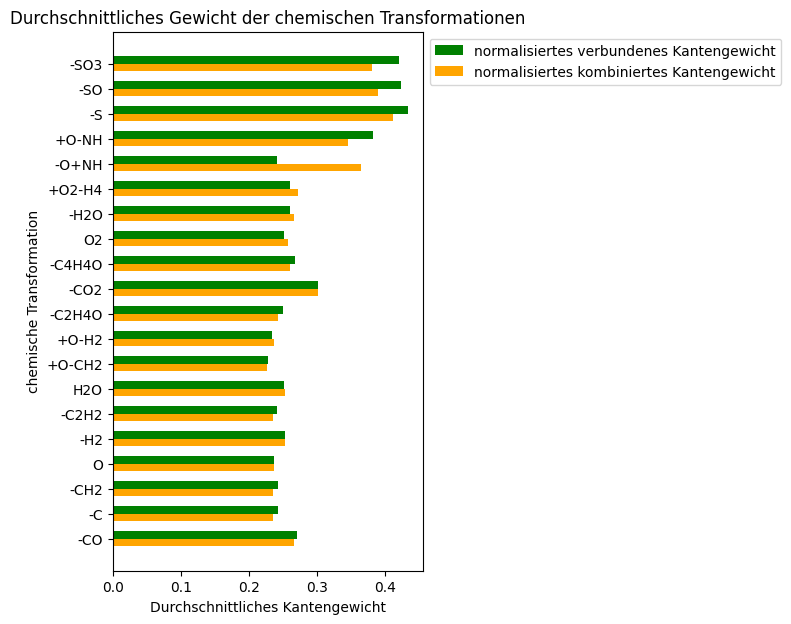
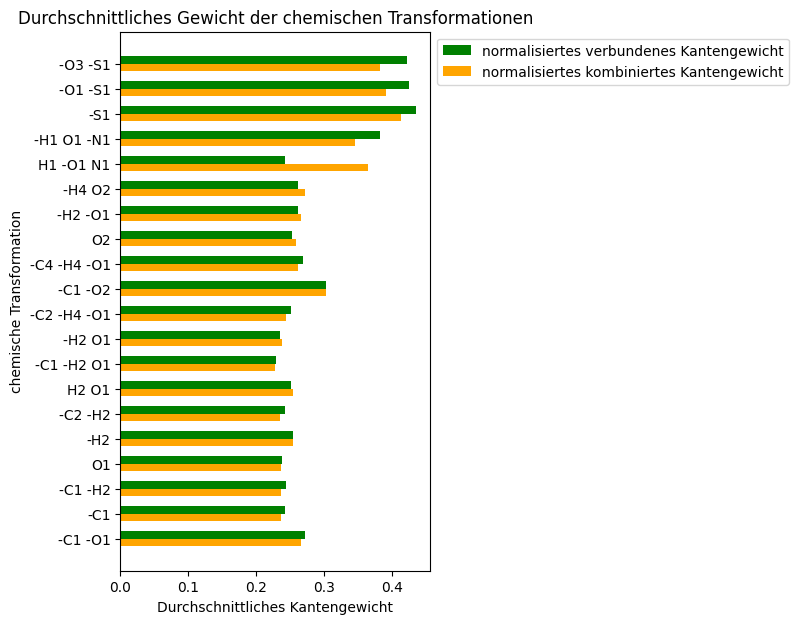
update analyze scripts

diff --git a/models/analyze/A010_analyze_graph.py b/models/analyze/A010_analyze_graph.py
@@ -1,5 +1,5 @@
 # Name: Philipp Plamper 
-# Date: 12. october 2021
+# Date: 13. october 2021
 
 import matplotlib.pyplot as plt
 import numpy as np
@@ -68,8 +68,7 @@ def get_intensity_trend_distribution(call_graph, export_path):
     plt.xlabel('Messpunkt')
     plt.ylabel('Anzahl an ausgehenden \n "SAME_AS"-Kanten')
     plt.legend(['Anzahl Molekülknoten', 'gleichbleibende Intensität', 'sinkende Intensität', 'steigende Intensität'], loc='upper left', bbox_to_anchor=(1, 1))
-    x = [0,1,2,3,4,5,6,7,8,9,10,11,12]
-    plt.xticks(x)
+    plt.xticks(np.arange(0, len(get_mol), 1))
 
     name = 'graph_intensity_trend_distribution'
     plt.savefig(export_path + name + '.png', bbox_inches='tight')
@@ -93,7 +92,7 @@ def outgoing_transformations_measurement(call_graph, export_path):
 
     get_mol = call_graph.run("""
         MATCH (m:Molecule)-[]-(t:Measurement)
-        WHERE t.point_in_time < 12
+        WHERE t.point_in_time < 13
         RETURN t.point_in_time as time, count(m) as cmol
     """).to_data_frame()
 
@@ -106,8 +105,7 @@ def outgoing_transformations_measurement(call_graph, export_path):
     plt.bar(or_hti.time, or_hti.relationships_out, color='orange')
     plt.plot(get_mol.time, get_mol.cmol, color = 'black', lw=1.5)
     plt.legend(['Anzahl Molekülknoten', 'PT-Kanten', 'HTI-Kanten'], loc='upper left', bbox_to_anchor=(1, 1))
-    x = [0,1,2,3,4,5,6,7,8,9,10,11]
-    plt.xticks(x)
+    plt.xticks(np.arange(0, len(get_mol), 1))
 
     name = 'graph_outgoing_transformations_measurement'
     plt.savefig(export_path + name + '.png', bbox_inches='tight')
@@ -139,22 +137,19 @@ def outgoing_transformations_occurrence(call_graph, export_path):
     mor_cti = mor_cti.groupby(mor_cti['rel_out'], as_index=False).aggregate(af_cti)
     mor_cti['cti_perc'] = mor_cti.formula_string/mor_cti.formula_string.sum()*100
 
-    y = [1,2,3,4,5,6,7,8,9,10,11,12,13,14,15,16,17,18,19]
-    x = [1,2,3,4,5,6,7,8,9,10,11,12,13,14,15]
-
     plt.figure(figsize=(9, 3))
     plt.subplot(1, 2, 1)
     plt.suptitle('Verteilung der Anzahl der ausgehenden Transformationskanten pro Molekülknoten')
     plt.bar(mor_cti.rel_out, mor_cti.cti_perc, color='green')
     plt.xlabel('Anzahl ausgehende PT-Kanten')
     plt.ylabel('Anteil der Molekülknoten (%)')
-    plt.xticks(y)
+    plt.xticks(np.arange(1, len(mor_cti)+1, 1))
 
     plt.subplot(1, 2, 2)
     plt.bar(mor.rel_out, mor.hti_perc, color='green')
     plt.xlabel('Anzahl ausgehende HTI-Kanten')
     plt.ylabel('Anteil der Molekülknoten (%)')
-    plt.xticks(x)
+    plt.xticks(np.arange(1, len(mor)+1, 1))
 
     plt.tight_layout()
 
@@ -181,11 +176,8 @@ def most_occurring_transformations(call_graph, export_path):
     df_join = pd.merge(transform_count_hti, transform_count_cti, on=["funktionelle_Gruppe"])
     df_join['share_hti'] = df_join.Anzahl_HTI_Kanten/df_join.Anzahl_HTI_Kanten.sum()*100
     df_join['share_cti'] = df_join.Anzahl_CTI_Kanten/df_join.Anzahl_CTI_Kanten.sum()*100
-    df_join['fg'] = ['-CO', '-C', '-CH2', 'O', '-H2', '-C2H2', 'H2O', '+O-CH2', '+O-H2', '-C2H4O', '-CO2', '-C4H4O', 'O2', '-H2O', '+O2-H4', '-O+NH', '+O-NH', '-S', '-SO', '-SO3']
 
-    df_join['diff'] = df_join.share_hti/df_join.share_cti
-
-    labels = ['-CO', '-C', '-CH2', 'O', '-H2', '-C2H2', 'H2O', '+O-CH2', '+O-H2', '-C2H4O', '-CO2', '-C4H4O', 'O2', '-H2O', '+O2-H4', '-O+NH', '+O-NH', '-S', '-SO', '-SO3']
+    labels = df_join['funktionelle_Gruppe'].to_list()
     x = np.arange(len(labels))
     height = 0.3
     plt.figure(figsize=(4, 7))
@@ -217,7 +209,7 @@ def average_weight_transformations(call_graph, export_path):
     tch.avg_combined = tch.avg_combined
     tch.avg_connect = tch.avg_connect
 
-    labels = ['-CO', '-C', '-CH2', 'O', '-H2', '-C2H2', 'H2O', '+O-CH2', '+O-H2', '-C2H4O', '-CO2', '-C4H4O', 'O2', '-H2O', '+O2-H4', '-O+NH', '+O-NH', '-S', '-SO', '-SO3']
+    labels = tch['funktionelle_Gruppe'].to_list()
     x = np.arange(len(labels))
     height = 0.3
     plt.figure(figsize=(4, 7))

diff --git a/models/analyze/A005_analyze_data.py b/models/analyze/A005_analyze_data.py
@@ -19,7 +19,7 @@ def molecules_per_measurement(molecule_data, export_path):
 
     aggregation_functions = {'peak_charge': 'sum'}
     df_count = molecule_data.groupby(molecule_data['measurement_id']).aggregate(aggregation_functions)
-    help_list = [0,1,2,3,4,5,6,7,8,9,10,11,12]
+    help_list = np.arange(0, len(df_count), 1)
     df_count['timepoint']= help_list
 
     df_count['wdup'] = df_count.peak_charge - df_dup.peak_charge
@@ -31,19 +31,14 @@ def molecules_per_measurement(molecule_data, export_path):
     plt.suptitle('Zugewiesene Moleküle je Messung')
     plt.bar(df_count.timepoint, df_count.peak_charge, color='green')
     plt.bar(df_count.timepoint, df_count.wdup, color='orange')
-
     plt.plot(df_count.timepoint, df_count.avg_mol, color='purple')
     plt.plot(df_count.timepoint, df_count.avg_mol+mol_sd, linestyle='--', color='purple')
-
     plt.legend(['durchschnittlich zugewiesen', 'Standardabweichung', 'insgesamt zugewiesen', 'Mehrfachzuweisungen'], loc='upper left', bbox_to_anchor=(1, 1))
-
     plt.plot(df_count.timepoint, df_count.avg_mol-mol_sd, linestyle='--', color='purple')
     plt.axhspan(df_count.peak_charge.mean()-mol_sd, df_count.peak_charge.mean()+mol_sd, alpha=0.15, color='purple')
-
     plt.xlabel('Messpunkt')
     plt.ylabel('Anzahl an zugewiesenen Molekülen')
-    x = [0,1,2,3,4,5,6,7,8,9,10,11,12]
-    plt.xticks(x)
+    plt.xticks(np.arange(0, len(df_count), 1))
 
     name = 'data_molecules_per_measurement'
     plt.savefig(export_path + name + '.png', bbox_inches='tight')
@@ -55,8 +50,8 @@ def molecules_per_measurement(molecule_data, export_path):
 def sum_relative_intensity(molecule_data, export_path):
     af = {'peak_relint_tic': 'sum'}
     df_gesamt = molecule_data.groupby(molecule_data['measurement_id']).aggregate(af)
-    df_gesamt['occ'] = [0,1,2,3,4,5,6,7,8,9,10,11,12]
-    df_gesamt['soll'] = [1,1,1,1,1,1,1,1,1,1,1,1,1]
+    df_gesamt['occ'] = np.arange(0, len(df_gesamt), 1)
+    df_gesamt['soll'] = [1]*len(df_gesamt)
     df_gesamt['diff'] = df_gesamt['peak_relint_tic']-df_gesamt['soll']
 
     plt.suptitle('Summe der relativen Intensitäten über alle Messpunkte')
@@ -65,8 +60,7 @@ def sum_relative_intensity(molecule_data, export_path):
     plt.xlabel('Messpunkt')
     plt.ylabel('Summe der relativen Intensitäten')
     plt.legend(['summierte normalisierte Intensität', 'normalisierte Intensität von 1.0'], loc='upper left', bbox_to_anchor=(1, 1))
-    x = [0,1,2,3,4,5,6,7,8,9,10,11,12]
-    plt.xticks(x)
+    plt.xticks(np.arange(0, len(df_gesamt), 1))
 
     name = 'data_sum_relative_intensity'
     plt.savefig(export_path + name + '.png', bbox_inches='tight')
